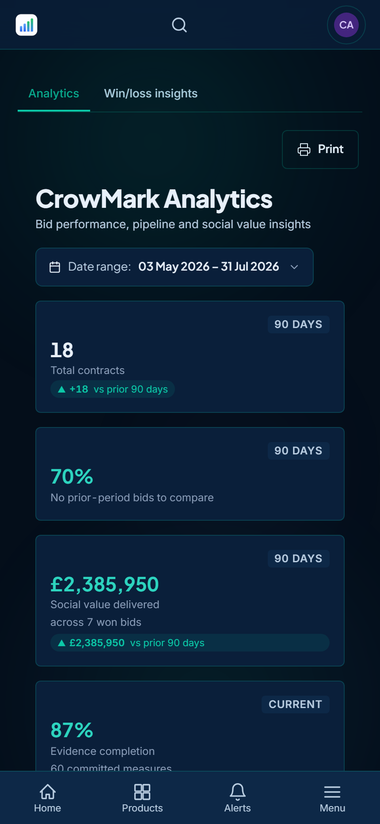
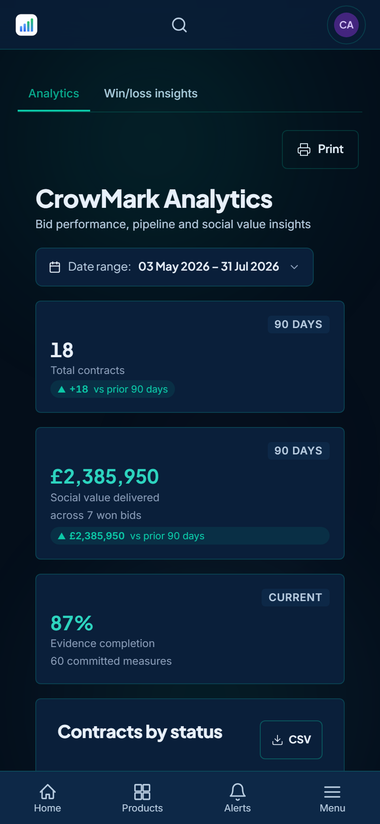
fix(home): device-strip caption ran off the screen, and the phone still showed 70%
Both found by READING the mobile render, not by measuring. Neither would have surfaced
from the numbers: every automated gate was already green on this section.

1. THE PHONE MOCK STILL CARRIED THE WIN-RATE FIGURE. The earlier hideText pass removed
   the "Win rate" LABEL but left the tile, so the phone shipped a bare orphaned "70%"
   above "No prior-period bids to compare" — arguably worse than the original, because the
   number lost the only thing explaining it.

   Cause: my width ceiling was window.innerWidth * 0.7. A KPI tile on the 430px mobile
   viewport is ~350px, and 350 > 301, so the ancestor walk aborted BEFORE reaching the
   card and hid only the text node. Raised to 0.95; height remains the meaningful guard
   against climbing into a page-level container. Desktop was unaffected and had been
   correct, which is exactly why this survived the first check.

2. THE CAPTION RAN OFF THE RIGHT EDGE OF THE SCREEN at 390px, rendering one word-fragment
   per line: "Sam / wo / tab / and / pho / Rea / cap / not / mo".

   Cause: trust-2026-07-30.css laid the captures and caption side by side under 700px and
   sized the images through `.tr-shot-tab` / `.tr-shot-phone`. Those classes appear ZERO
   times in index.html — the CSS constrains wrappers the markup does not have. The images
   therefore kept their intrinsic width, took 298px of a 348px column, and left the
   caption a ~36px sliver whose text overflowed.
[…]

Changed region(s): [[0.0868, 0.5461, 0.9263, 0.8495], [0.1158, 0.8799, 0.5789, 0.9405], [0.6947, 0.7888, 0.9263, 0.9102]]

diff --git a/Assets/css/trust-2026-07-30.css b/Assets/css/trust-2026-07-30.css
@@ -216,11 +216,21 @@
    beside their caption rather than above it, so the phone-width layout does not end
    with a tall stack of images under a wall of already-compressed text. */
 @media (max-width: 699px) {
-  .tr-col-dev { display: grid; grid-template-columns: auto minmax(0, 1fr); gap: 14px; align-items: center; }
+  /* FIXED 2026-07-31. This block put the captures and their caption side by side and
+     sized the images via `.tr-shot-tab` / `.tr-shot-phone`. Those classes appear ZERO
+     times in index.html — the CSS constrains wrappers the markup does not have, so the
+     images kept their intrinsic size, took 298px of a 348px column, and left the caption
+     a ~36px sliver. Measured result at 390px: "Same workspace, tablet and phone. Real
+     captures, not mockups." rendered one word-fragment per line and ran off the right
+     edge of the screen.
+
+     Stacked instead, which is what the layout needs when the images are not width-capped:
+     label, captures, then caption. The images are explicitly capped here rather than via
+     the phantom wrapper classes, so the rule matches what is actually in the DOM. */
+  .tr-col-dev { display: grid; grid-template-columns: 1fr; gap: 12px; align-items: start; }
   .tr-col-dev .tr-glabel { grid-column: 1 / -1; }
-  .tr-shots { margin: 0; }
-  .tr-shot-tab { flex: 0 0 76px; }
-  .tr-shot-phone { flex: 0 0 46px; }
+  .tr-shots { margin: 0; gap: 10px; }
+  .tr-shots img { max-width: 100%; height: auto; }
 }
 
 /* TWO COLUMNS, NOT THREE, 2026-07-30.

diff --git a/index.html b/index.html
@@ -52,7 +52,7 @@
   <link rel="stylesheet" href="/Assets/css/find-demo-2026-07-30.css?v=20260730a">
   <link rel="stylesheet" href="/Assets/css/prove-demo-2026-07-30.css?v=20260730a">
   <link rel="stylesheet" href="/Assets/css/showcase-2026-07-30.css?v=20260730a">
-  <link rel="stylesheet" href="/Assets/css/trust-2026-07-30.css?v=20260730a">
+  <link rel="stylesheet" href="/Assets/css/trust-2026-07-30.css?v=20260731h">
   <link rel="stylesheet" href="/Assets/css/journey-products-2026-07-30.css?v=20260730a">
   <link rel="stylesheet" href="/Assets/css/statute-integrations-2026-07-30.css?v=20260730a">
 
